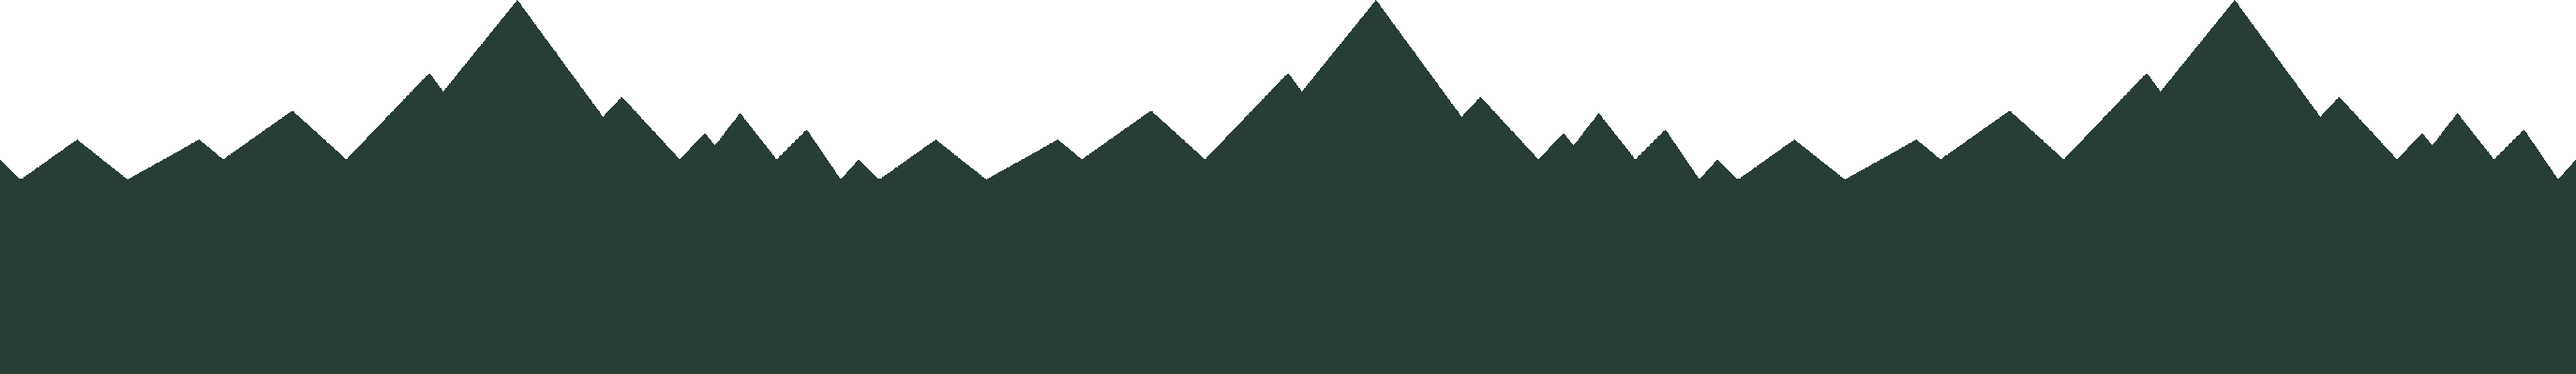
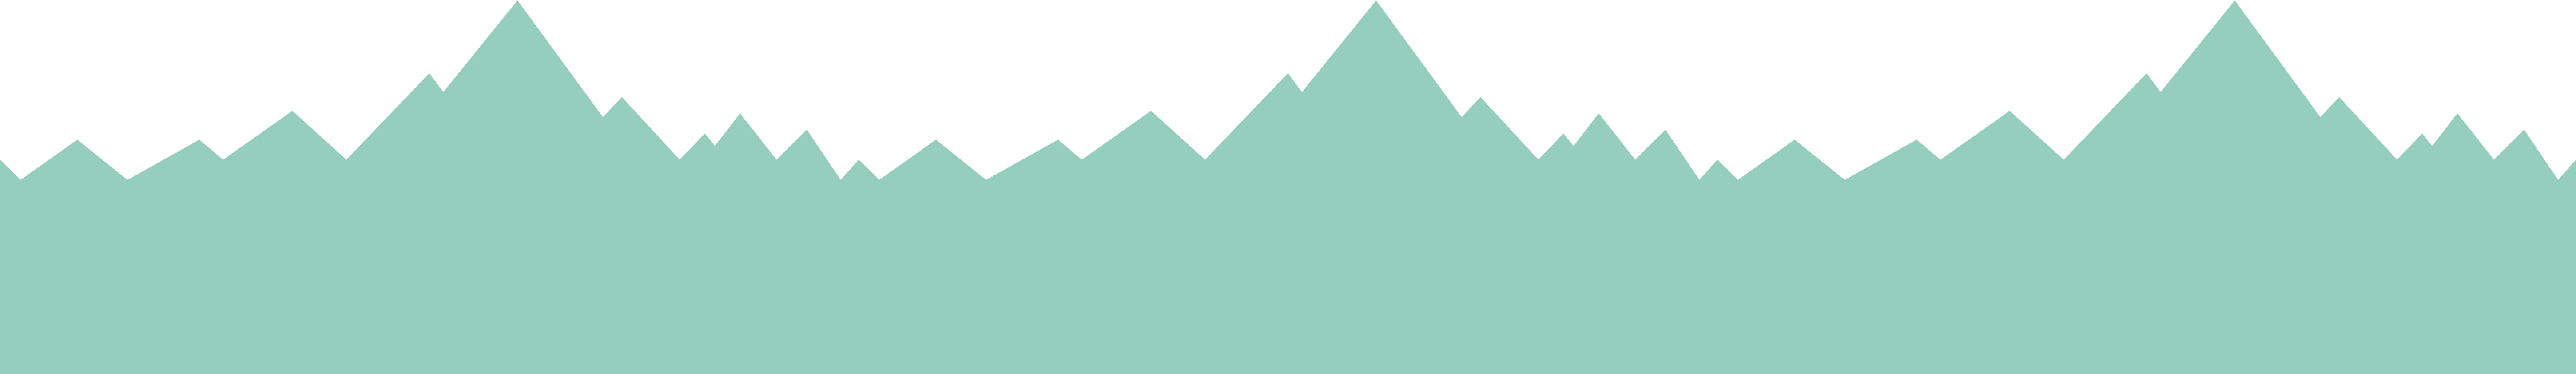
- Changes to background - Added assets

diff --git a/src/com/tfs/darkworld/entities/SkyTile.java b/src/com/tfs/darkworld/entities/SkyTile.java
@@ -2,10 +2,13 @@ package com.tfs.darkworld.entities;
 
 import java.awt.Graphics2D;
 import java.awt.image.BufferedImage;
+import java.awt.image.RescaleOp;
 
 import com.tfs.darkworld.res.CommonRasters;
 
 public class SkyTile extends GameEntity {
+
+	private static float MAX_OFFSET = 1;
 
 	private double scaleSpeed;
 
@@ -13,9 +16,10 @@ public class SkyTile extends GameEntity {
 	private float deltaAlphaOffset = 0.001f;
 	private float alphaOffset = 1f;
 
-	public SkyTile(double scaleSpeed) {
+	public SkyTile(double scaleSpeed, double dX) {
 		super(0, 0, 0);
 		this.scaleSpeed = scaleSpeed;
+		mDX = dX;
 	}
 
 	@Override
@@ -26,16 +30,29 @@ public class SkyTile extends GameEntity {
 
 	@Override
 	public void render(Graphics2D g, int sw, int sh) {
-		// float[] scales = { 1f, 1f, 1f, mAlphaOffset };
-		// float[] offsets = new float[4];
-		// RescaleOp rop = new RescaleOp(scales, offsets, null);
+		float[] scales = { 1f, 1f, 1f, alphaOffset };
+		float[] offsets = new float[4];
+		RescaleOp rop = new RescaleOp(scales, offsets, null);
+
+		float[] scales1 = { 1f, 1f, 1f, MAX_OFFSET - alphaOffset };
+		float[] offsets1 = new float[4];
+		RescaleOp rop1 = new RescaleOp(scales, offsets, null);
+
+		// g.drawImage(CommonRasters.getLightSky(), rop, (int) mX, (int) mY);
+		// g.drawImage(CommonRasters.getDarkSky(), rop1, (int)mX, (int)mY);
 
 		g.drawImage(CommonRasters.getLightSky(), (int) mX, (int) mY, null);
+		//g.drawImage(CommonRasters.getDarkSky(), (int) mX, (int) mY, null);
 	}
 
 	@Override
 	public void update() {
-		mX -= (scaleSpeed * mDX);
+		mX -= scaleSpeed * mDX;
+		alphaOffset += deltaAlphaOffset;
+
+		if (alphaOffset <= 0 || alphaOffset >= 1) {
+			deltaAlphaOffset = -deltaAlphaOffset;
+		}
 	}
 
 }

diff --git a/src/com/tfs/darkworld/states/GameplayState.java b/src/com/tfs/darkworld/states/GameplayState.java
@@ -40,7 +40,7 @@ public class GameplayState extends GameState {
 
 	public GameplayState(GameHost host) {
 		super(host);
-		gameSong = new MP3Player(new File("music/sanity.mp3"));
+		//gameSong = new MP3Player(new File("music/sanity.mp3"));
 		//gameSong = new MP3Player(new File("music/moonwalk.mp3"));
 		gameSong.setRepeat(true);
 		

diff --git a/src/com/tfs/darkworld/entities/GameEntity.java b/src/com/tfs/darkworld/entities/GameEntity.java
@@ -10,7 +10,7 @@ import com.tfs.darkworld.entities.interfaces.IUpdatable;
 
 public abstract class GameEntity implements IUpdatable, IRenderable {
 	private static final boolean DEBUG_BODY = false;
-	private static final boolean DEBUG_INTERSECT= true;
+	private static final boolean DEBUG_INTERSECT= false;
 	
 	
 	

diff --git a/src/com/tfs/darkworld/entities/Background.java b/src/com/tfs/darkworld/entities/Background.java
@@ -44,7 +44,7 @@ public class Background extends GameEntity {
 	 */
 	private void initTiles() {
 
-		skyTile = new SkyTile(SCALE_SKY_SPEED);
+		skyTile = new SkyTile(SCALE_SKY_SPEED, mDX);
 
 		forestTileArray = new ArrayList<>();
 		mountainTileArray = new ArrayList<>();

diff --git a/src/com/tfs/darkworld/entities/BackgroundTile.java b/src/com/tfs/darkworld/entities/BackgroundTile.java
@@ -31,7 +31,7 @@ public class BackgroundTile extends GameEntity {
 	@Override
 	public void update() {
 		// super.update();
-		mX -= (scaleSpeed * mDX);
+		mX -= scaleSpeed * mDX;
 	}
 
 	@Override
